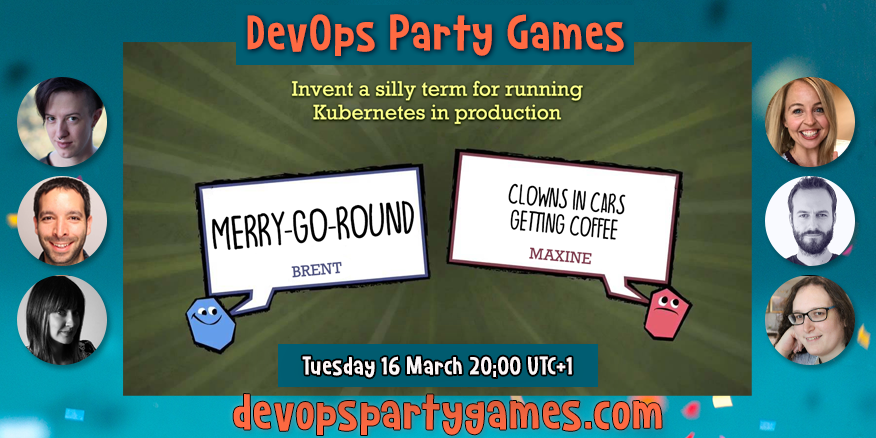
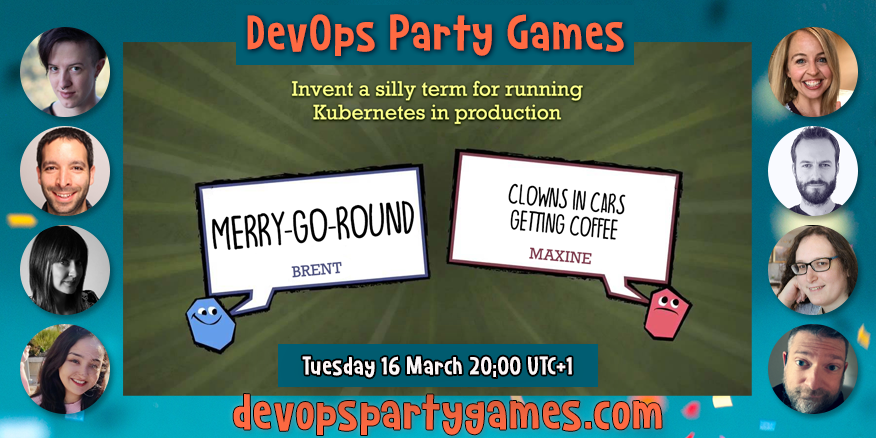
Add sheela and jeremy to s02e05

Changed region(s): [[0.0, 0.0594, 0.1541, 0.9795], [0.863, 0.0594, 0.9863, 0.9795]]

diff --git a/src/pages/posts/s02e05.md b/src/pages/posts/s02e05.md
@@ -25,6 +25,10 @@ Join the livestream at [twitch.tv/devopspartygames](https://twitch.tv/devopspart
 <a href = "https://twitter.com/adamsurak" class = "player-episode-page" target = "_blank"><img src = "/images/players/adam-surak.png" alt="Adam Suràk" width="200" height="100" class = "player-episode-page"></a>
 <a href = "https://twitter.com/stormy_prime" class = "player-episode-page" target = "_blank"><img src = "/images/players/stormy.png" alt="Stormy" width="200" height="100" class = "player-episode-page"></a>
 <br clear = "all">
+<a href = "https://twitter.com/sheelanistala" class = "player-episode-page" target = "_blank"><img src = "/images/players/sheela-nistala.png" alt="Adam Suràk" width="200" height="100" class = "player-episode-page"></a>
+<a href = "https://twitter.com/iamjerdog" class = "player-episode-page" target = "_blank"><img src = "/images/hosts/jeremy-meiss.png" alt="Jeremy Meiss" width="200" height="100" class = "player-episode-page"></a>
+<br clear = "all">
+
 
 ## Hosts
 <a href = "https://twitter.com/mattstratton" class = "player-episode-page"><img src = "/images/hosts/matty2.png" alt="Matt Stratton" width="150" height="100" class = "player-episode-page"></a>
